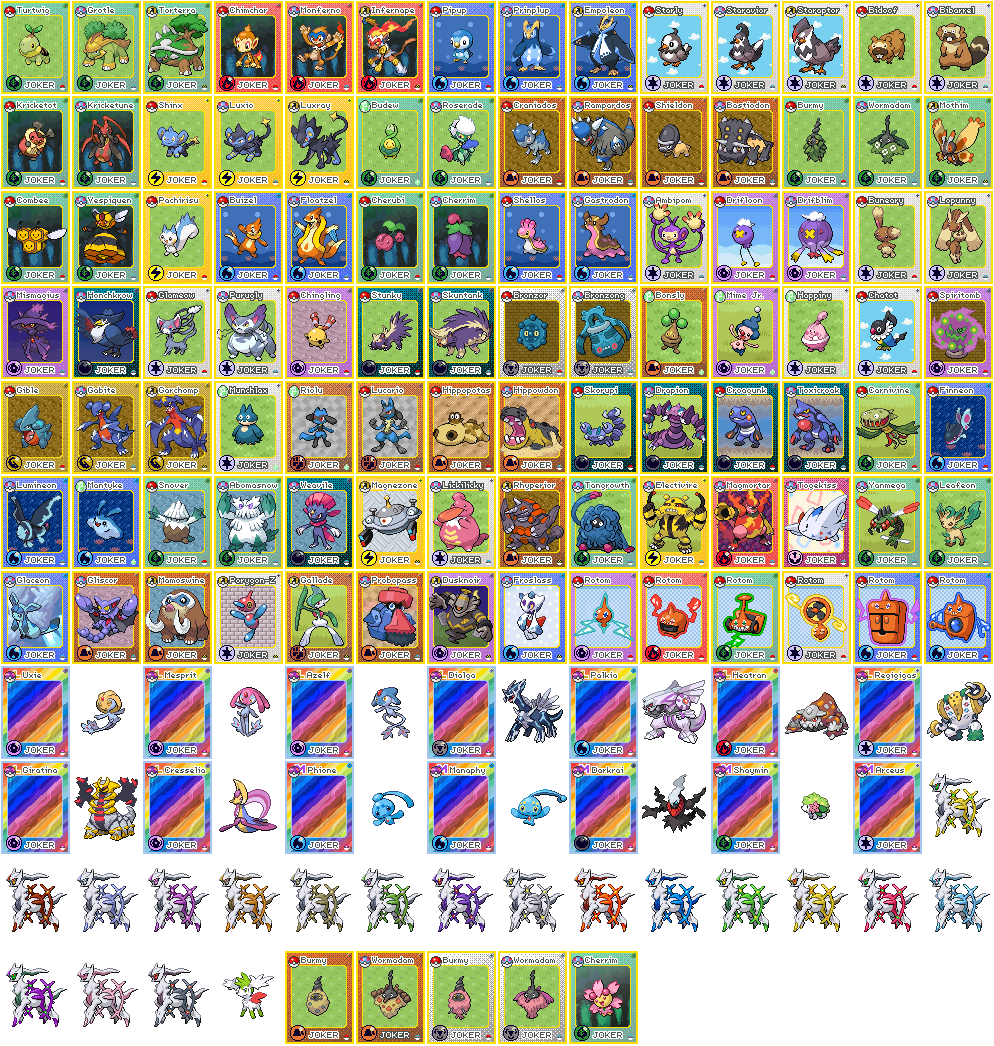
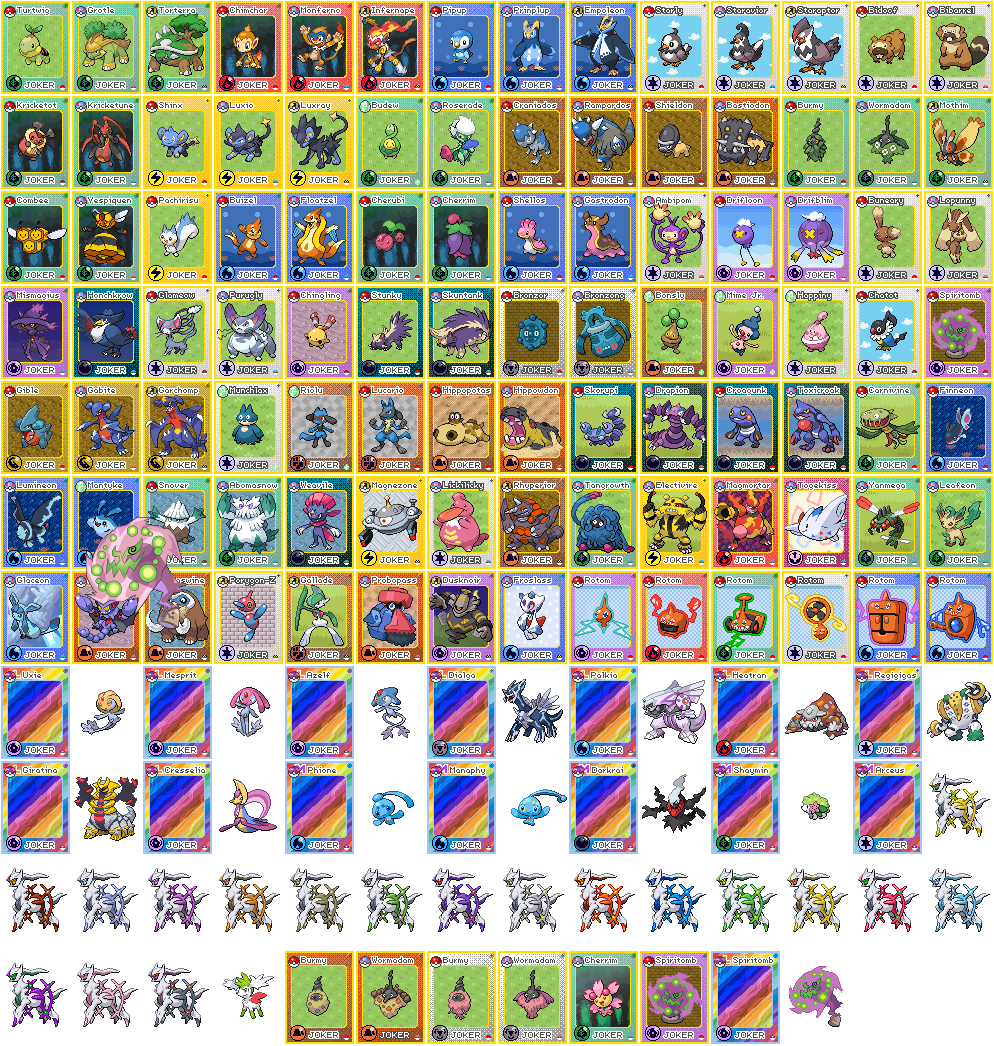
Added Odd Keystone, Keystone sprite is a placeholder, various changes

Changed region(s): [[0.6237, 0.8872, 0.8421, 1.0], [0.0624, 0.4895, 0.1871, 0.6119]]

diff --git a/README.md b/README.md
@@ -21,9 +21,15 @@ Gmax Copperajah's MAX move sets a unit entry hazard, Steelsurge, which is basica
 
 | Joker | Effect |
 | ------ | ------ |
-| Spiritomb | +108 Chips, +108 Mult, -4 Hand Size<br/>Becomes Negative if you have 108+ cards |
+| Odd Keystone | Does nothing<br/>Evolves after selling jokers or consumables or destroying cards 108 times<br/>Evolves after using The Soul
+| Spiritomb | +108 Chips, +108 Mult, -3 Hand Size<br/>Becomes Negative if you have 108+ cards |
+| Spiritomb | x1.08 for each card in your full deck<br/>Becomes Negative if you have 108+ cards |
 
-Spiritomb is connected to the number 108 a lot, but 108 of anything in this game is a lot. I figured a Stuntman that also gives mult in exchange for much less hand size can make for an interesting joker. Having 108 cards in the deck feels improbable, but you can try to abuse hazards for example as once it's negative it won't lose it.
+The Odd Keystone is an item that does nothing, but Spiritomb is a powerful joker that can almost solo win any run so you have to commit a lot to get it. Maybe eventually I'll give it a real effect, but I like it as is.
+
+Spiritomb is connected to the number 108 a lot, but 108 of anything in this game is a lot. I figured a Stuntman that also gives mult in exchange for even less hand size can make for an interesting joker. Having 108 cards in the deck feels improbable, but you can try to abuse hazards for example as once it's negative it won't lose it.
+
+The 2nd Spiritomb is Legendary, as it will destroy the legendary created by The Soul. That's why it has such a powerful effect, it's highly unlikely to get both Odd Keystone and The Soul in the same run. Also, it cannot appear through The Soul or Master Ball, you have to evolve the Odd Keystone to be able to get it. Maybe I'll rebalance it later, but for now I just think it's funny.
 
 ## Decks
 
@@ -39,6 +45,10 @@ They are not challenges in the sense that they are not challenging. It's just a 
 
 | Name | Starting jokers | Starting consumables |
 | ------ | ------ | ------ |
-| Glimmora's Hazard Flood | Jynx, Jirachi (Copy), Glimmora, Gigalith, Golurk | N/A |
-| Copperajah's Steelized Hazard | Jynx, Copperajah, Magnezone, Aggron, Hitmonchan | Mega Stone, Metal Coat |
-| Spiritomb's Short Yet Strong Hand | Spiritomb, Golem, Jynx, Muk, Hitmonchan | N/A |
+| Glimmora | Jynx, Jirachi (Copy), Glimmora, Gigalith, Golurk | N/A |
+| Copperajah | Jynx, Copperajah, Magnezone, Aggron, Hitmonchan | Mega Stone, Metal Coat |
+| Odd Keystone | Odd Keystone, Persian, Magmortar, Tall Grass | The Soul, The Hermit |
+
+## Localization
+
+The extension is fully translated in french. L'extension est traduite en français en son intégralité.
